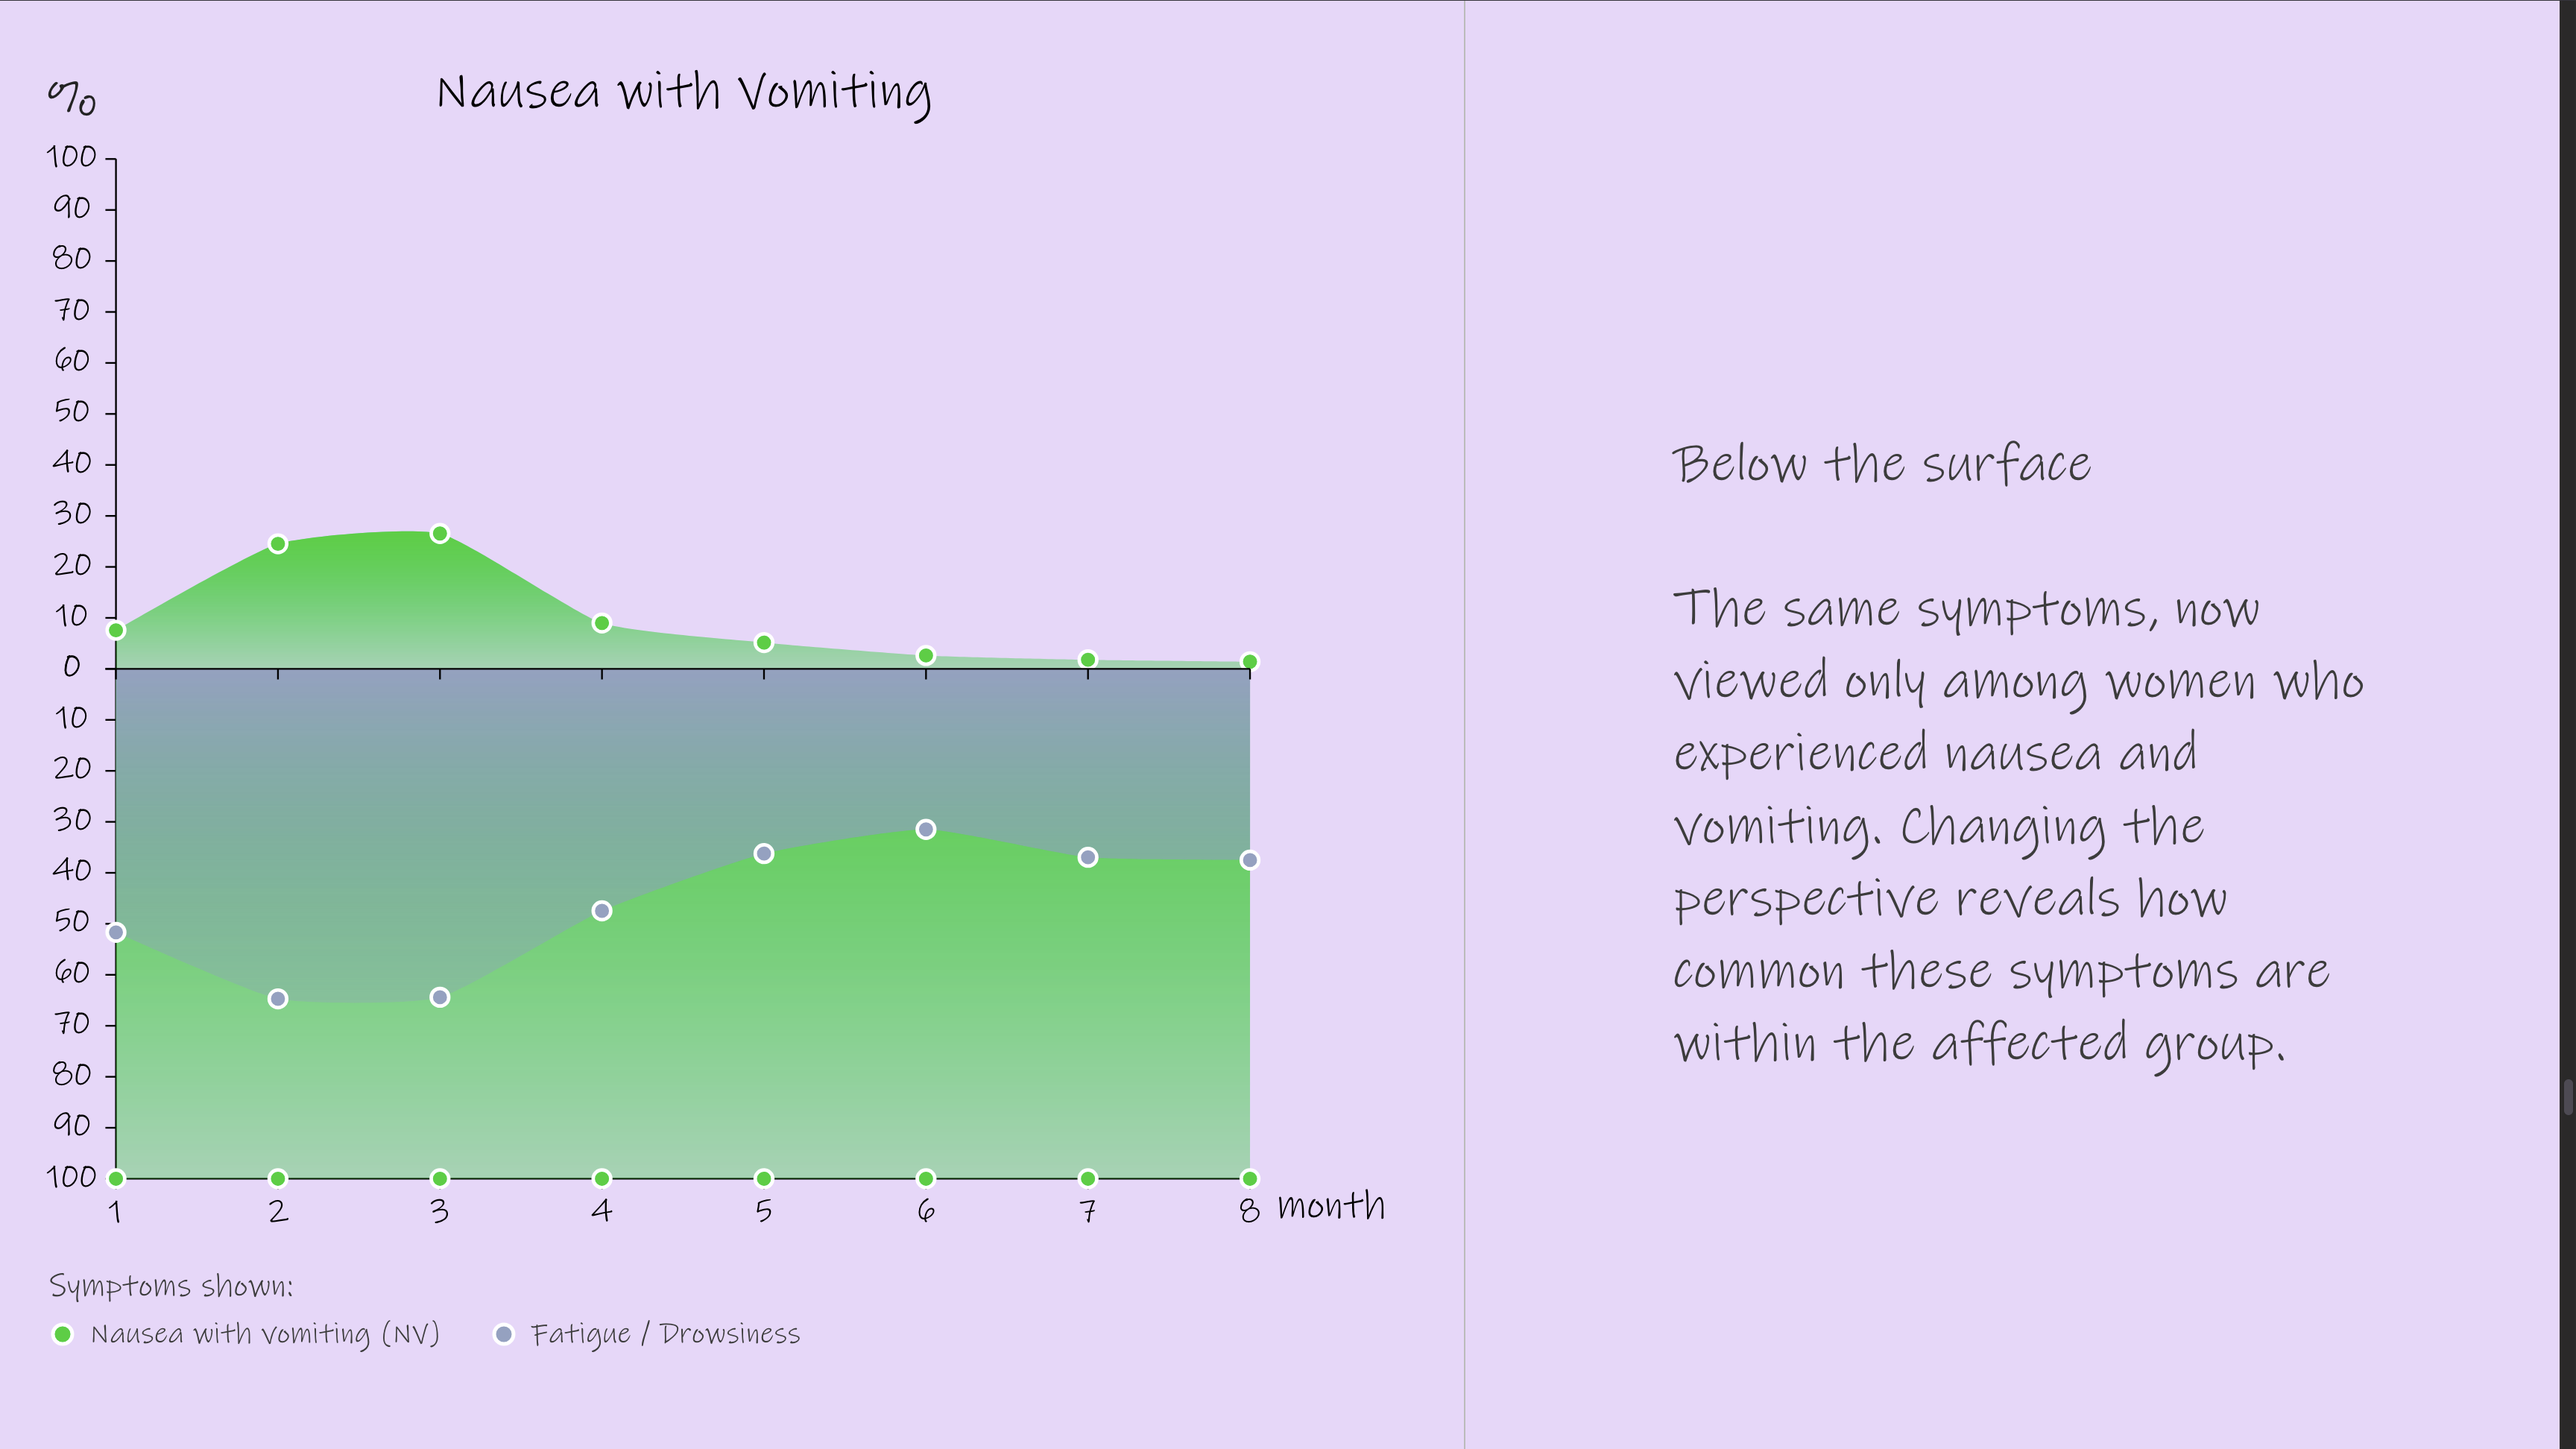
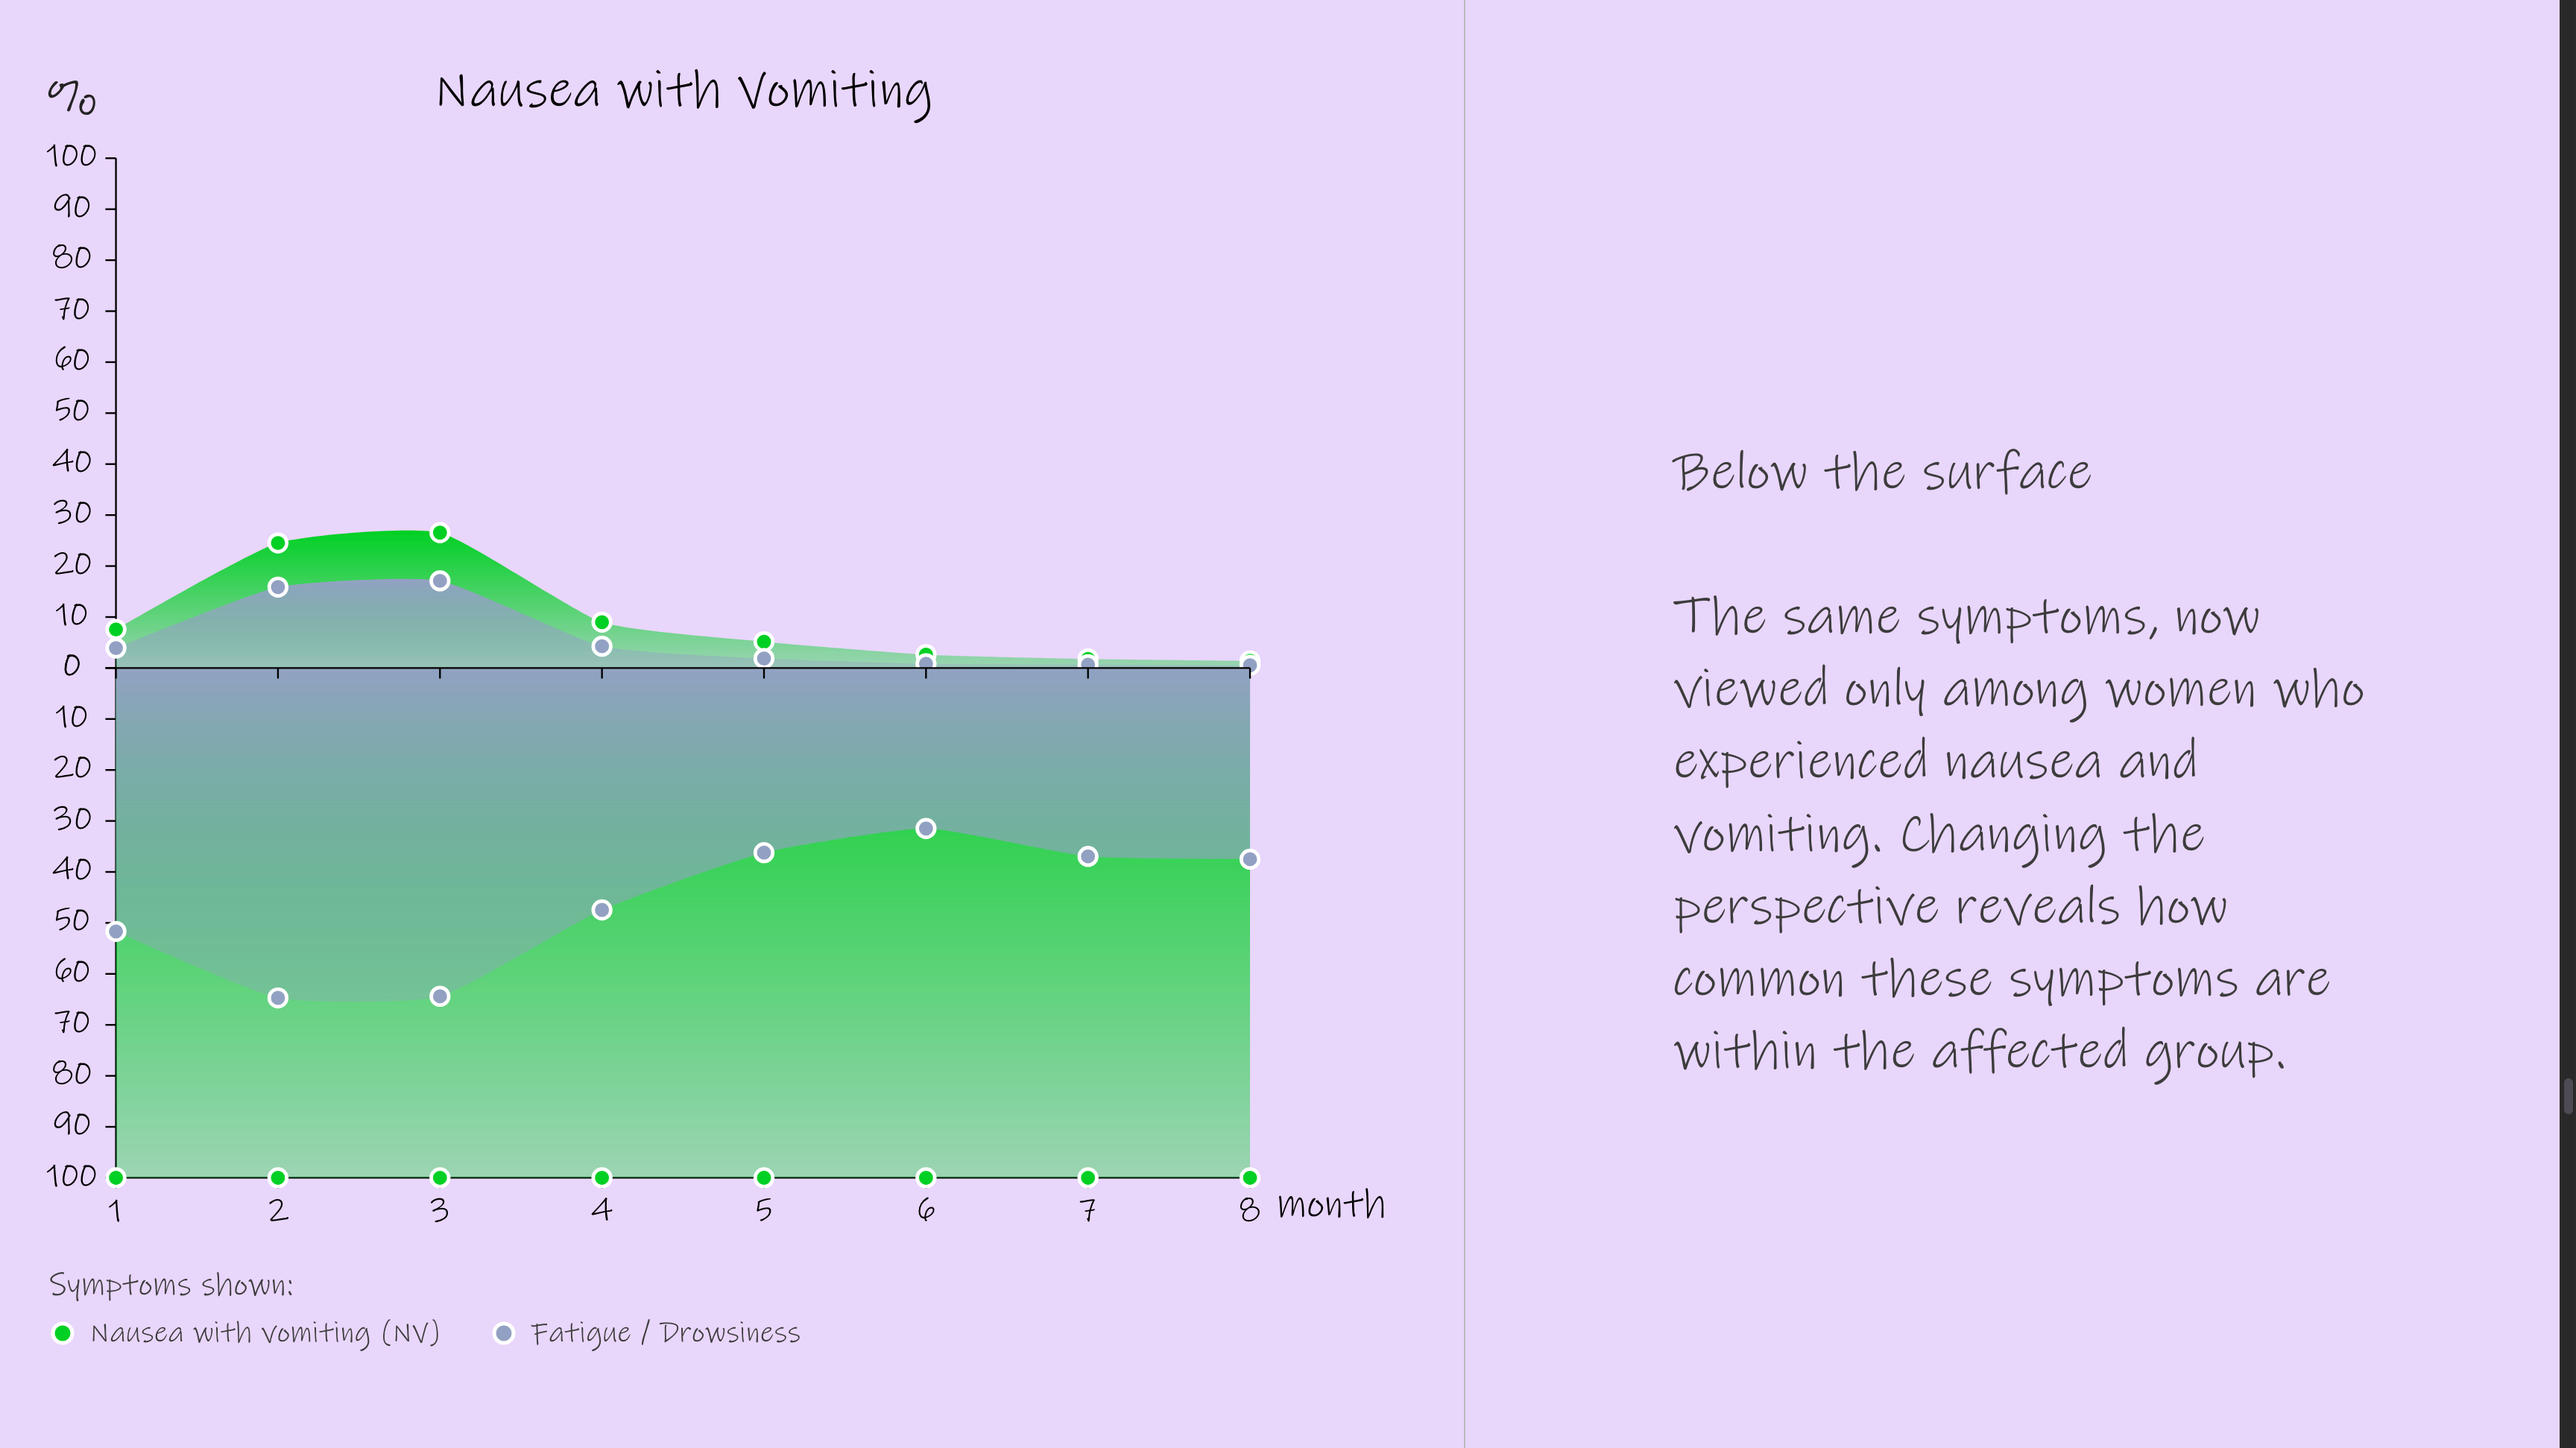
Update README

diff --git a/src/styles/index.css b/src/styles/index.css
@@ -2,7 +2,7 @@
   --text: #3c3c3c;
   --d3labels: #222;
   --white: whitesmoke;
-  --darkrose: #d87093;
+  --darkrose: #bd5f7f;
   --lightrose: #e6b9cf;
   --lightgreen: #9ff4c4;
   --nausea: #afdbaf;

diff --git a/README.md b/README.md
@@ -43,7 +43,7 @@ The application combines both experimental story versions using a *Martini Glass
 | ![Exhausted face of protagonist](./screenshots/intro-3.png) | ![Protagonist drowning in the ocean](./screenshots/intro-4.png) |
 | Conveying emotional burden through illustration | Defining Hyperemsis Gravidarum (HG) |
 
-### Explain the Disease and Prevalence
+### Explain the Disease
 | | |
 |---|---|
 | ![Exhausted face of protagonist](./screenshots/explain-disease.png) | ![Protagonist drowning in the ocean](./screenshots/hg-prevalence.png) |
